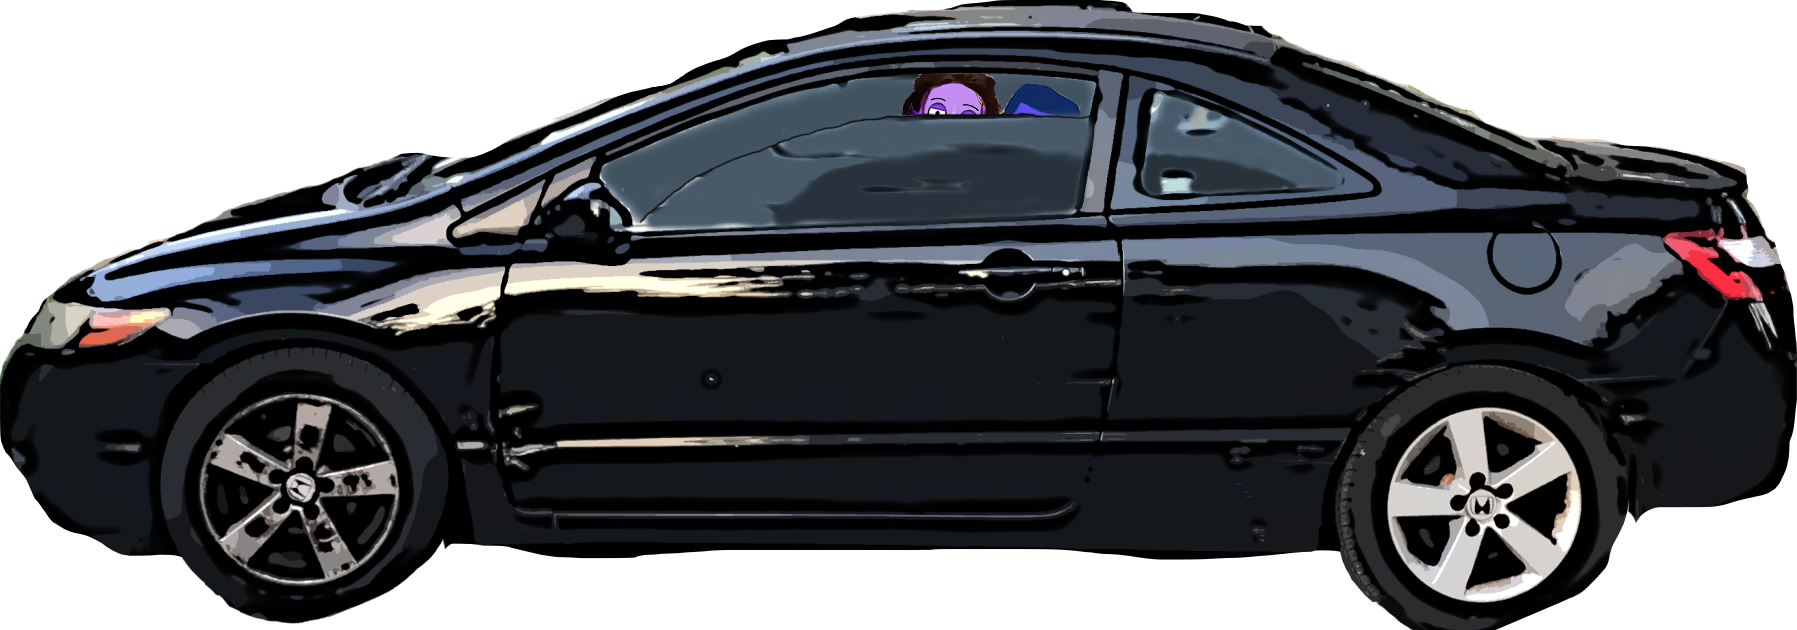
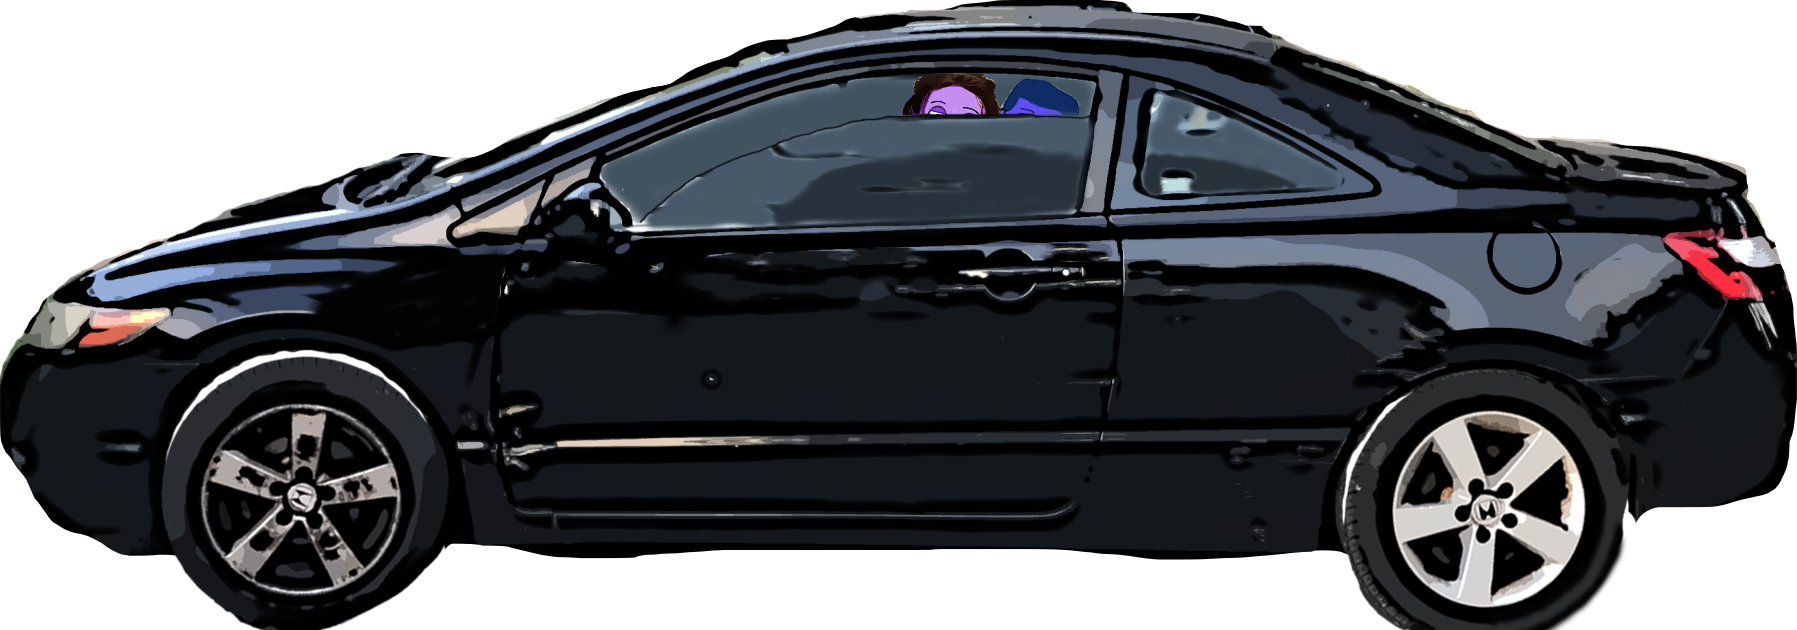
animations getting better

Changed region(s): [[0.0935, 0.3619, 0.6233, 1.0], [0.7479, 0.573, 0.9037, 1.0], [0.4986, 0.1206, 0.5921, 0.181]]

diff --git a/src/components/Animation/Animation.jsx b/src/components/Animation/Animation.jsx
@@ -6,20 +6,20 @@ import carLeft1 from '../../car-images/carleft1.png';
 import carLeft2 from '../../car-images/carleft2.png';
 import carLeft3 from '../../car-images/carleft3.png';
 import carLeft4 from '../../car-images/carleft4.png';
-import carLeft5 from '../../car-images/carleft5.png';
 import carRight1 from '../../car-images/carright1.png';
 import carRight2 from '../../car-images/carright2.png';
 import carRight3 from '../../car-images/carright3.png';
 import carRight4 from '../../car-images/carright4.png';
 
 const Animation = () => {
-  const leftImages = [carLeft1, carLeft2, carLeft3, carLeft4, carLeft5];
-  const rightImages = [carRight1, carRight2, carRight3, carRight4];
+  const leftImages = [carLeft1, carLeft2, carLeft3, carLeft4];
+  const rightImages = [carRight4, carRight3, carRight2, carRight1];
   const [right, setRight] = useState(0);
   const [top, setTop] = useState(-12);
   const [visibility, setVisibility] = useState("visible");
-  let go = true;
   const [currentImage, setCurrentImage] = useState(carLeft1);
+  const [imgWidth, setImgWidth] = useState(250);
+  let go = true;
 
   const handleScroll = (e) => {
     const position = window.scrollY;
@@ -30,29 +30,32 @@ const Animation = () => {
 
     const coord = (position - 700) / 7;
     if (go) {
-      let img;
+      let img = currentImage;
+      let width = 250;
       let topValue = -12;
       let rightValue = coord > 0 ? coord : 0;
-
-      let blah = Math.floor(rightValue/4);
-      while (blah >= leftImages.length) blah -= leftImages.length;
-      
-      // <= (leftImages.length - 1) ? Math.floor(rightValue/4) : Math.floor(rightValue/4) - leftImages.length;
-
+      let blah = Math.floor(rightValue % 4);
       img = (leftImages[blah]);
+      
 
-      if (rightValue >= 85 && top <= 8) {
+      if (rightValue >= 82 && top <= 8) {
+        img = carFront;
         const blah = position - 1340;
-        topValue = blah / 4;
+        const divisor = ((1400 - position)/20)+4;
+        width = position / divisor;
+        topValue = (blah / 4)+2;
         if (topValue > 8) topValue = 8;
         rightValue = 85;
       }
 
       if (position >= 1372) {
+        let steps = Math.floor(right % 4);
+        img = rightImages[steps]; 
+        width = 300;
         const diff = position - 1372;
         const factor = diff / 7;
         if (right > 73) {
-          rightValue = 85 - factor + 1;
+          rightValue = 85 - factor - 5;
         } else {
           setVisibility("hidden");
         }
@@ -63,6 +66,7 @@ const Animation = () => {
       setTop(topValue);
       setRight(rightValue);
       setCurrentImage(img);
+      setImgWidth(width);
       go = false;
       return;
     }
@@ -84,7 +88,7 @@ const Animation = () => {
         src={currentImage}
         alt=""
         style={{
-          width: "250px",
+          width: `${imgWidth}px`,
           position: "absolute",
           right: `${right}vw`,
           top: `${top}vw`,
